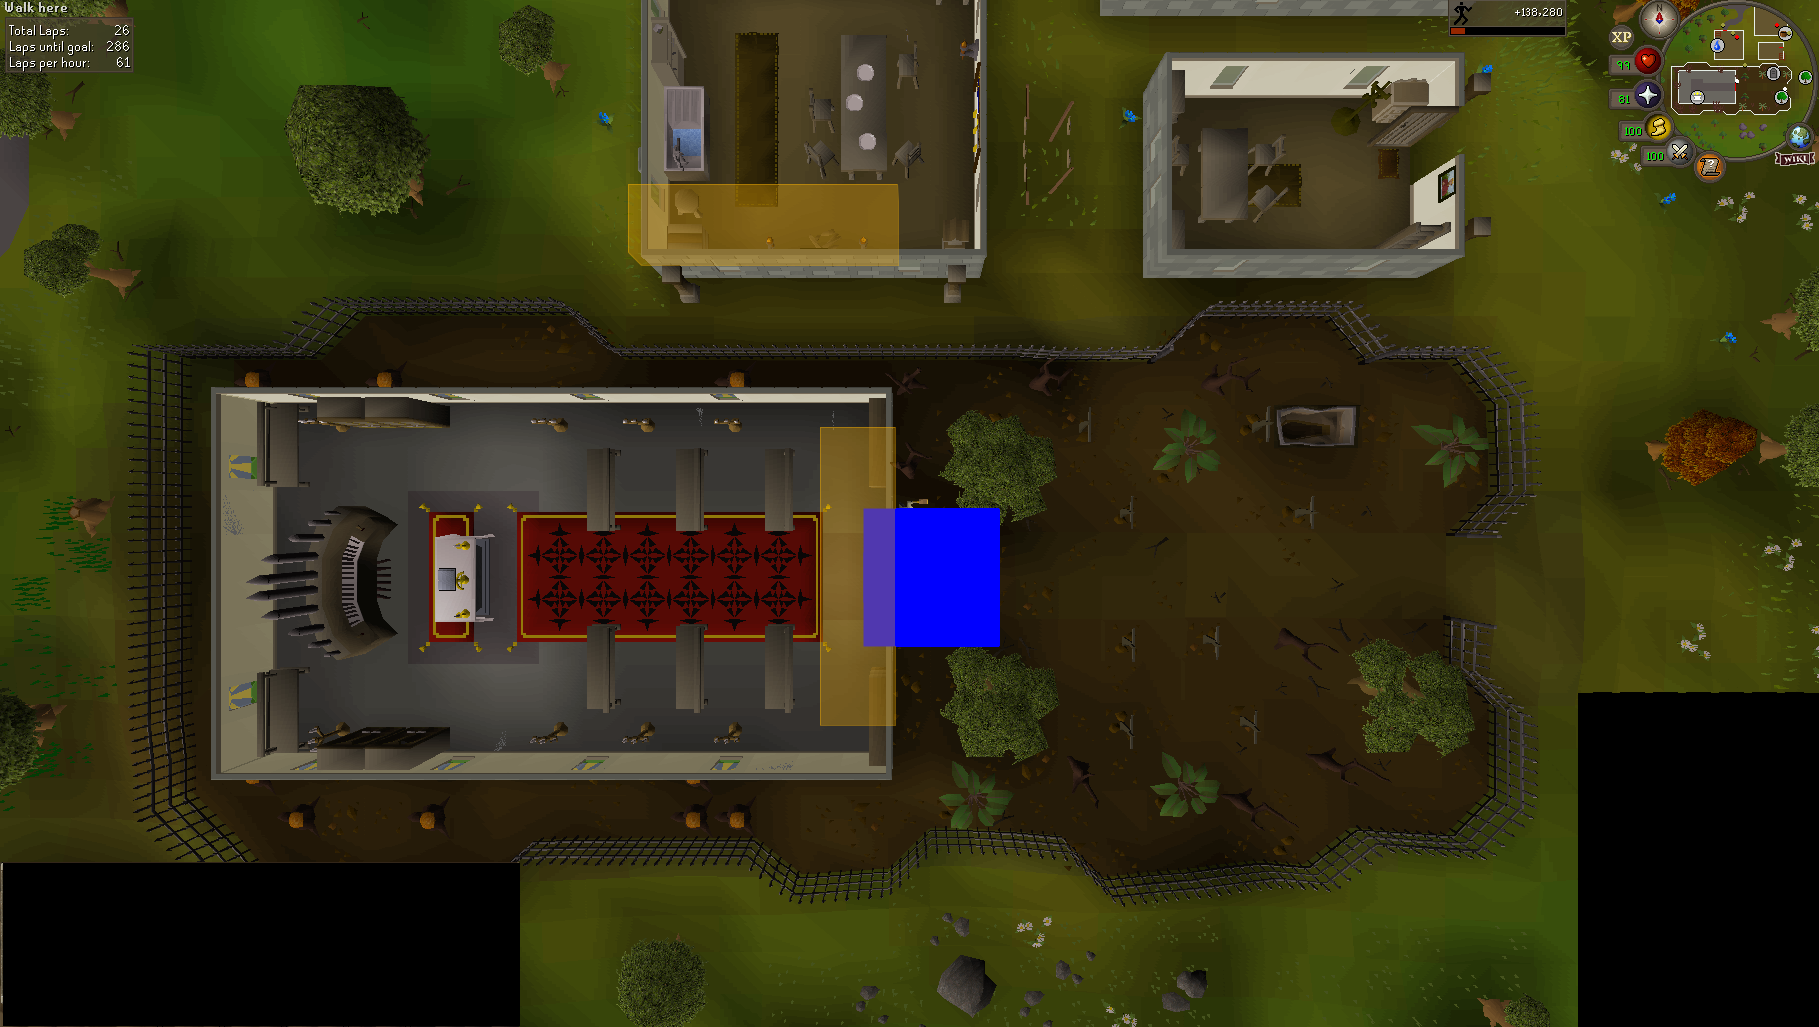
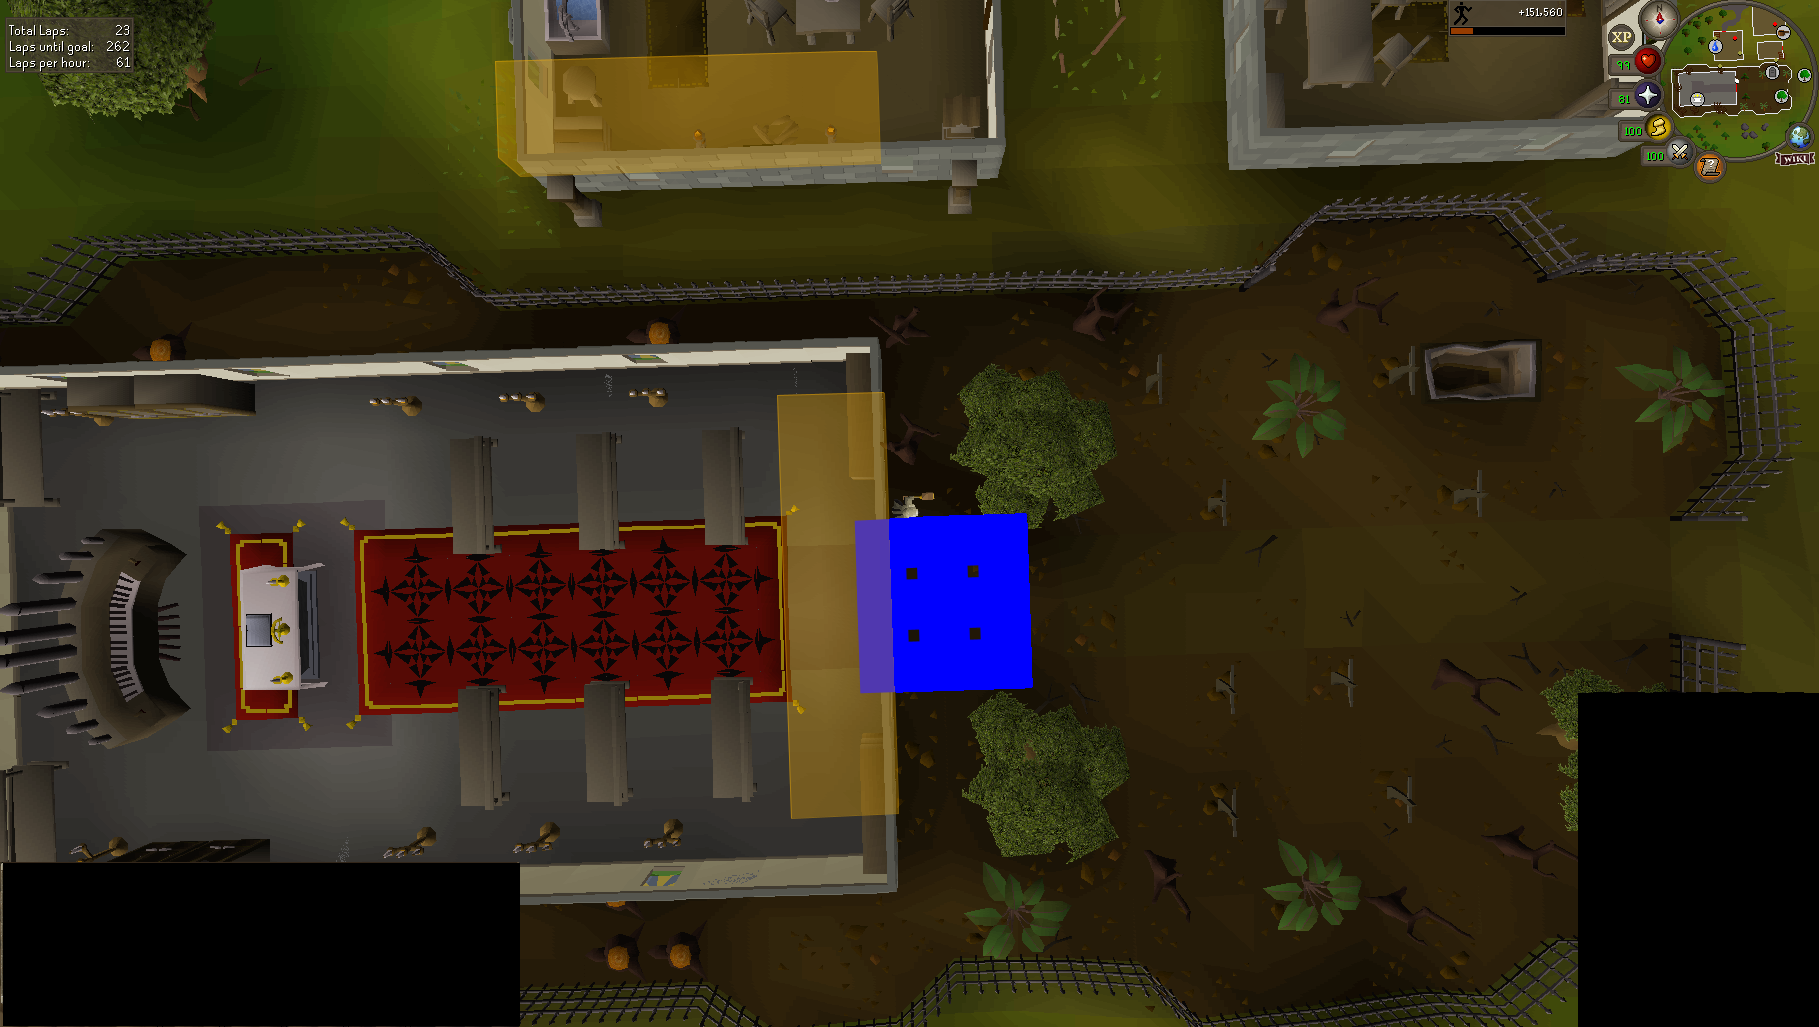
updated to have a timer and to flip to spellbok upon start

diff --git a/src/model/osrs/agility.py b/src/model/osrs/agility.py
@@ -11,6 +11,7 @@ import utilities.imagesearch as imsearch
 from utilities.window import Window
 from utilities.options_builder import OptionsBuilder
 import cv2
+import pyautogui as pag
 
 class AgilityBot(OSRSBot):
     def __init__(self):
@@ -25,8 +26,11 @@ class AgilityBot(OSRSBot):
         self.no_obstacle_count = 0
         self.obstacle_count = 0  # Add counter for obstacles
         self.last_lap_count = None  # Add this to track last seen lap count
+        self.runtime = 1  # Default runtime in minutes
+        self.start_time = None
         # Define number of obstacles per course
         self.course_obstacles = {
+            "Seers": 6,
             "Gnome": 6,
             "Draynor": 6,
             "Al Kharid": 6,
@@ -38,10 +42,11 @@ class AgilityBot(OSRSBot):
         """
         Use the OptionsBuilder to define the options for the bot.
         """
-        self.options_builder.add_dropdown_option("course", "Agility Course", ["Gnome", "Draynor", "Al Kharid", "Varrock", "Canifis"])
+        self.options_builder.add_dropdown_option("course", "Agility Course", ["Seers", "Gnome", "Draynor", "Al Kharid", "Varrock", "Canifis"])
         self.options_builder.add_slider_option("min_breaks", "Minimum break time (seconds)", 1, 30)
         self.options_builder.add_slider_option("max_breaks", "Maximum break time (seconds)", 31, 120)
         self.options_builder.add_checkbox_option("take_breaks", "Take breaks between laps", ["Yes"])
+        self.options_builder.add_text_edit_option("runtime", "Runtime (minutes, 1-3600)", "60")  # Only 3 arguments: key, title, placeholder
 
     def save_options(self, options: dict):
         """
@@ -52,6 +57,18 @@ class AgilityBot(OSRSBot):
         self.min_breaks = options["min_breaks"] 
         self.max_breaks = options["max_breaks"]
         self.take_breaks = options["take_breaks"]
+
+            # Validate and convert runtime
+        try:
+            runtime = int(options["runtime"])
+            if runtime < 1 or runtime > 3600:
+                self.log_msg("Runtime must be between 1 and 3600 minutes. Setting to 60 minutes.")
+                runtime = 60
+        except ValueError:
+            self.log_msg("Invalid runtime value. Setting to 60 minutes.")
+            runtime = 60
+
+        self.runtime = options["runtime"] * 60  # Convert minutes to seconds
         self.log_msg(f"Running {self.course} agility course")
         self.options_set = True
 
@@ -187,7 +204,7 @@ class AgilityBot(OSRSBot):
                 self.log_msg(f"Red object - Area: {area}, Size: {w}x{h}, Aspect ratio: {aspect_ratio:.2f}")
                 
                 # More lenient size range for marks (adjusted based on logs)
-                if 10 < area < 2000 and 0.5 < aspect_ratio < 1.5:  # Increased upper limit, added aspect ratio check
+                if 10 < area < 10000 and 0.5 < aspect_ratio < 1.5:  # Increased upper limit, added aspect ratio check
                     valid_contours.append((area, contour))
                     self.log_msg(f"Valid mark of grace candidate found with area: {area}")
             
@@ -217,11 +234,16 @@ class AgilityBot(OSRSBot):
         """
         self.log_msg("Starting Agility Bot...")
         self.setup_camera()
+        self.start_time = time.time()  # Add start time when options are saved
         last_obstacle_pos = None
         fails = 0
         self.obstacle_count = 0  # Reset counter at start
         
         while self.status == BotStatus.RUNNING:
+            if time.time() - self.start_time > int(self.runtime):
+                self.log_msg("Runtime completed. Stopping bot...")
+                self.status = BotStatus.STOPPED
+                break
             try:
                 # First check if we're at course end
                 if self.is_at_course_end():
@@ -383,6 +405,10 @@ class AgilityBot(OSRSBot):
         self.log_msg("Setting up camera...")
         # Set compass North
         self.set_compass_north()
+        # Switch to spellbook
+        self.log_msg("Switching to spellbook...")
+        pag.press('f4')
+        time.sleep(0.5)  # Small delay after switching
         # Set camera to highest angle
         self.move_camera(vertical=90) 
-    
+        
